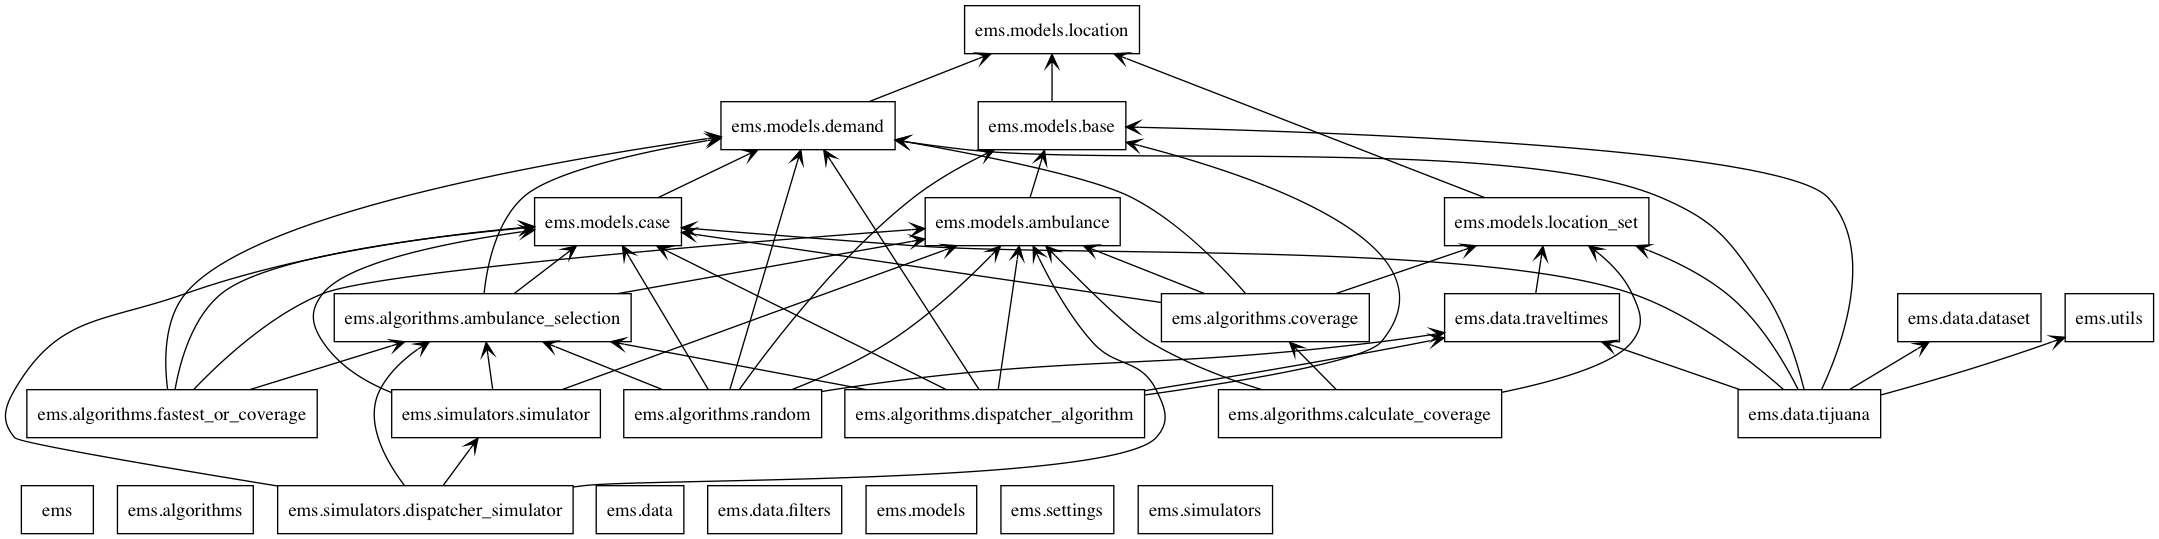
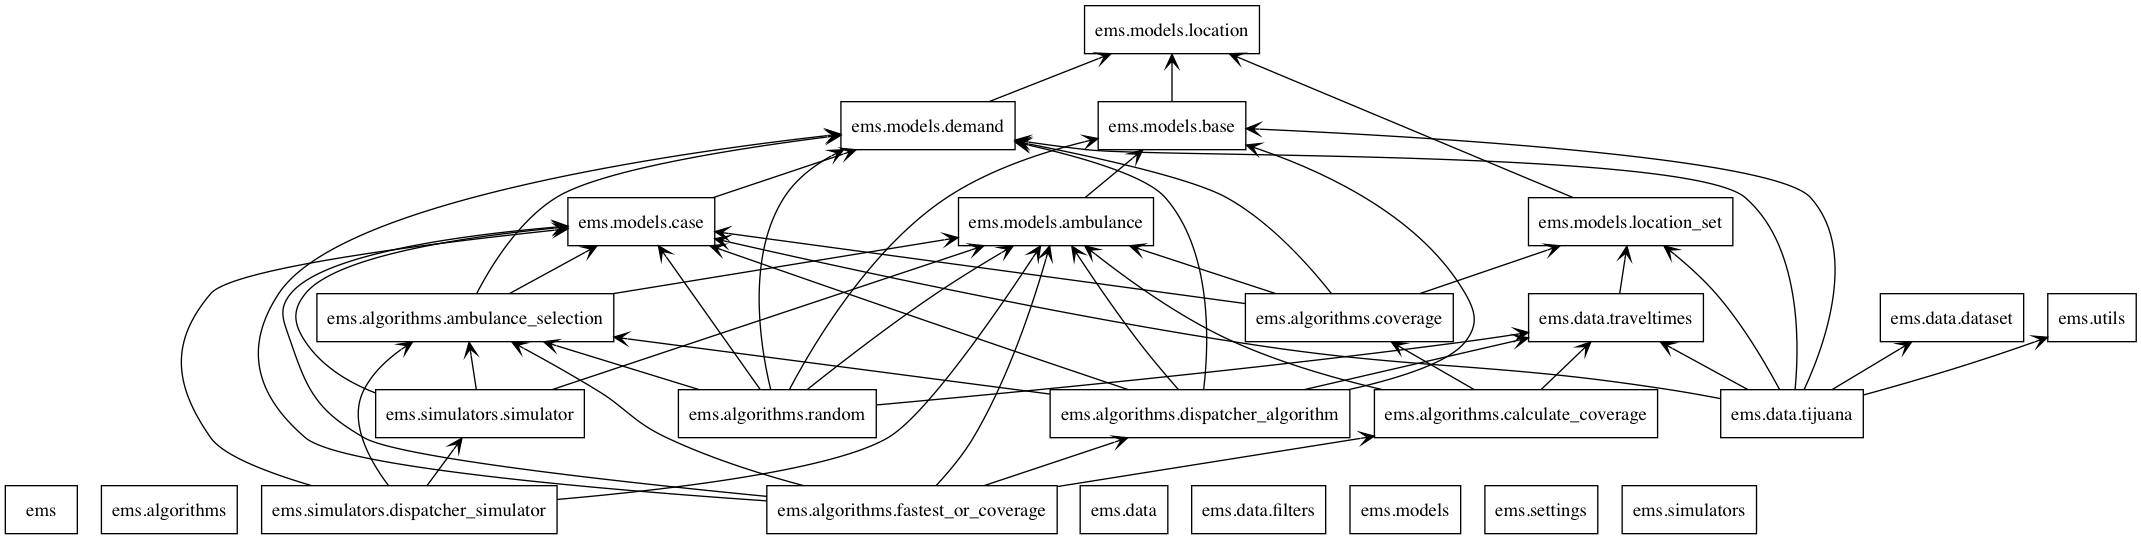
updating readme diagrams

diff --git a/ems/algorithms/dispatcher_algorithm.py b/ems/algorithms/dispatcher_algorithm.py
@@ -21,7 +21,7 @@ from ems.models.demand import Demand
 # An implementation of a "fastest travel time" algorithm from a base to
 # the demand point closest to a case
 
-class DispatcherAlgorithm(AmbulanceSelectionAlgorithm):
+class BestTravelTimeAlgorithm(AmbulanceSelectionAlgorithm):
 
     def __init__(self,
                  bases: List[Base] = None,
@@ -45,11 +45,10 @@ class DispatcherAlgorithm(AmbulanceSelectionAlgorithm):
             ambulances, self.traveltimes, closest_demand)
 
         # Determine the overall coverage, and each ambulance's disruption to the cost. TODO 
-        current_coverage = self.determine_coverage(ambulances, case)
+        # current_coverage = self.determine_coverage(ambulances, case)
 
         return {'choice': chosen_ambulance,
-                'travel_time': ambulance_travel_time,
-                'coverage': current_coverage}
+                'travel_time': ambulance_travel_time}
 
     def closest_distance(self, list_type, target_point):
         """
@@ -109,62 +108,6 @@ class DispatcherAlgorithm(AmbulanceSelectionAlgorithm):
 
 
 
-
-    def find_partial_coverage (self, base, demands_to_cover):
-
-        print("Length of demands: ", len(demands_to_cover))
-        # find the traveltime from the base to each demand, if it is less than 600 then it is covered
-        for i in range(len(demands_to_cover)):
-            
-            time = self.traveltimes.get_time(base, demands_to_cover[i])
-            covered = time.total_seconds() < 600
-            if covered:
-                demands_to_cover[i] = None
-                
-
-        return list(filter(None.__ne__, demands_to_cover))
-
-    def determine_coverage (self, ambulances:List[Ambulance], case):
-        # Given a set of ambulances, for each available ambulance, find its base and calculate how 
-        # many demands are covered. For each covered demand, delete it from the demand. 
-
-        # Continue until no more available ambulances, and then count remaining demand as 
-        # uncovered demands. 
-
-        checked_bases = []
-        active_bases = list([amb.base for amb in ambulances if not amb.deployed])
-        demands_covered = [0 for _ in self.demands]
-
-        for index in range(len(demands_covered)):
-            if not demands_covered[index]:
-                for base in active_bases:
-                    if self.traveltimes.get_time(base, self.demands[index]).total_seconds() < 600:
-                        demands_covered[index] = 1
-                        break
-        print("Coverage: ",sum(demands_covered))
-        return sum(demands_covered) 
-
-
-
-
-        # demands_to_cover = deepcopy(self.demands)
-        # covered = [0 for _ in demands_to_cover]
-
-        # active_bases = list([amb.base for amb in ambulances if not amb.deployed])
-
-        # print("Active bases: ", len(active_bases))
-        # for base in active_bases:
-        #     demands_to_cover = self.find_partial_coverage(base, demands_to_cover)
-
-
-
-        # print ("Coverage: " ,sum(covered))
-
-
-
-        # uncovered = sum([1 for u in demands_to_cover])
-        # print("Coverage: ", 100 - uncovered )
-        # return 100 - uncovered
 
 
 

diff --git a/ems/algorithms/calculate_coverage.py b/ems/algorithms/calculate_coverage.py
@@ -2,12 +2,13 @@
 from typing import List
 
 from ems.models.ambulance import Ambulance
-from ems.models.location_set import LocationSet
-
 from ems.algorithms.coverage import CoverageAlgorithm
+from ems.data.traveltimes import TravelTimes
+
+from datetime import timedelta
+from copy import deepcopy
 
 import numpy as np
-from datetime import timedelta
 
 # Used by the sim to select ambulances
 class DemandsCoveredAlgorithm (CoverageAlgorithm):
@@ -16,19 +17,45 @@ class DemandsCoveredAlgorithm (CoverageAlgorithm):
         finding coverage.
     """
 
-    def __init__(self):
-         self.recorded_coverages: List[int] = []
+    def __init__(self, travel_times:TravelTimes):
+        self.travel_times = travel_times
+        self._recorded_coverages:List = []
 
-    def calculateCoverage(self,
-                         demands: LocationSet,
-                         ambulances: List[Ambulance]):
+
+    def calculate_entire_coverage(self, ambulances : List[Ambulance]):
         """
-        Given a list of ambulances, find the coverage, and then append coverage.
-        :param demands:
+        At a time, given a list of ambulances, determine the coverage of all the demands.
+
         :param ambulances:
         :return:
         """
-        pass
+
+        active_bases = list([amb.base for amb in ambulances if not amb.deployed])
+        demands = self.travel_times.demands
+        demands_covered = [0 for _ in demands]
+
+        for index in range(len(demands)):
+            if not demands[index]:
+                for base in active_bases:
+                    if self.travel_times.get_time(base, demands[index]).total_seconds() < 600:
+                        demands_covered[index] = 1
+                        break
+
+        total = sum(demands_covered)
+        self._recorded_coverages.append(total)
+        return total
+
+
+
+
+    def get_most_recent(self):
+        return self._recorded_coverages[-1]
+
+    def get_all_coverages(self):
+        return deepcopy(self._recorded_coverages)
+
+
+
 
 
     def avgCoverage(self):
@@ -36,14 +63,15 @@ class DemandsCoveredAlgorithm (CoverageAlgorithm):
 
         :return: The average of the coverages so far.
         """
-        return sum(self.recorded_coverages) / len(self.recorded_coverages)
+        avg = sum(self._recorded_coverages) / len(self._recorded_coverages)
+        return avg
 
     def maxCoverage(self):
-        return max(self.recorded_coverages)
+        return max(self._recorded_coverages)
 
     def minCoverage(self):
-        return min(self.recorded_coverages)
+        return min(self._recorded_coverages)
 
     def stdDevCoverage(self):
-        std_dev = np.std(np.array([time.total_seconds() for time in l]), axis=0)
+        std_dev = np.std(np.array([time.total_seconds() for time in self._recorded_coverages]), axis=0)
         return timedelta(std_dev.item())

diff --git a/ems/simulators/dispatcher_simulator.py b/ems/simulators/dispatcher_simulator.py
@@ -67,13 +67,13 @@ class DispatcherSimulator(Simulator):
 
 
 
-            # Stage 2: Determine the next event
-            # Event Delay Case:         If no ambulances are available and next case occurs before any ambulance gets back
-            # Event Retire Ambulance:   If ambulances are currently handling cases and the ambulance gets back before
-            #                           next case occurs
-            # Event Start Case:         If ambulances are available and next case occurs before any ambulance gets back
-            #
-            # Finish when no more cases and no more ambulances attending cases
+    # Stage 2: Determine the next event
+    # Event Delay Case:         If no ambulances are available and next case occurs before any ambulance gets back
+    # Event Retire Ambulance:   If ambulances are currently handling cases and the ambulance gets back before
+    #                           next case occurs
+    # Event Start Case:         If ambulances are available and next case occurs before any ambulance gets back
+    #
+    # Finish when no more cases and no more ambulances attending cases
 
             # Loop end condition - No more case or moving ambulances
             if not pending_cases and not working_cases and not ambulances_in_motion:

diff --git a/ems/algorithms/fastest_or_coverage.py b/ems/algorithms/fastest_or_coverage.py
@@ -3,11 +3,14 @@ from typing import List
 
 from ems.models.ambulance import Ambulance
 from ems.models.case import Case
+from ems.algorithms.dispatcher_algorithm import BestTravelTimeAlgorithm
+from ems.algorithms.calculate_coverage import CoverageAlgorithm
+
 from ems.models.demand import Demand
 from ems.algorithms.ambulance_selection import AmbulanceSelectionAlgorithm
 
 # Used by the sim to select ambulances
-class FastestAmbulanceBestCoverage(AmbulanceSelectionAlgorithm):
+class FastestAmbulanceBestCoverage(BestTravelTimeAlgorithm, CoverageAlgorithm):
     """
         Barebone class. Users may subclass to implement their own algorithm for
         selecting an ambulance.

diff --git a/README.md b/README.md
@@ -1,29 +1,32 @@
 # Ambulance Dispatch Simulation
 
-A library to do ambulance dispatch simulation and analysis. 
+A library to do ambulance dispatch simulation and analysis.
 
 Try: `time python3 main.py --ambulances 7 --bases 7`
 
-To run the simulation, take a look at `main.py`. Notice the filepaths there. You will need to edit 
-`file_path`, `demands_filepath`, and `bases_filepath` to point at the Cruz Roja datasets. 
+To run the simulation, take a look at `main.py`. Notice the filepaths there. You will need to edit
+`file_path`, `demands_filepath`, and `bases_filepath` to point at the Cruz Roja datasets.
 
-To test, take a look at `test.py`. Similar to main.py, you will need to edit 
-`file_path`, `demands_filepath`, and `bases_filepath` to point at the Cruz Roja datasets. 
+To test, take a look at `test.py`. Similar to main.py, you will need to edit
+`file_path`, `demands_filepath`, and `bases_filepath` to point at the Cruz Roja datasets.
 
 You'll notice that an exception will be thrown. This is because the datasets will require
 labels in the CSV files. Add a newline above the datasets, naming the latitudes and longitudes.
 
-To see this, you may need to uncomment `printData()`. The test program will end up asking you 
-to proceed when ready. (Press Enter.) 
+To see this, you may need to uncomment `printData()`. The test program will end up asking you
+to proceed when ready. (Press Enter.)
 
 
 # UMLs
 
 These images are small, either (1) zoom into the page or (2) right click and open image in new tab.
 
-**Class UML Diagram:**
+## Simulator
 
-![](classes_EMS.png)
+![](classes_ems_simulators.jpg)
+![](classes_ems_models.jpg)
+![](classes_ems_data.jpg)
+![](classes_ems_algorithms.jpg)
 
 **Class UML Diagram:**
 
@@ -92,13 +95,13 @@ for input into the simulator (e.g. base selection)
 - Implements ambulance selection with a "fastest ambulance" algorithm by:
 
   - Finding the closest demand point to the given case by:
-  
+
     - Building a KD-Tree from the demand points for easy KNN (k=1) computation with the case location
-  
+
   - Finding a free ambulance whose travel time from its base to that demand point is minimal by:
-  
+
     - Querying the travel time object for travel times between each free ambulance's base to the demand point
-    
+
 - TBD (just need to merge): Support for coverage computation
 
 ### Simulator (ems/simulators/simulator.py)
@@ -114,27 +117,27 @@ for input into the simulator (e.g. base selection)
 - Run loop explanation:
 
   - __Stage 1__. Performs the current iteration's "event" and logs the results
-  
+
     - Events defined at the bottom of the file
-  
+
   - __Stage 2__. Computes the next iteration's event
-  
+
   - Keeps track of a "current time" and the current event
-  
+
   - Keeps track of all "pending cases" (cases that have begun but have not been assigned an ambulance)
-  
+
   - Keeps track of all ambulances that are attending cases
-  
+
   - _This is very much like a finite state machine with three states: "Start case", "Retire ambulance",
   and "Delay case"_
 
 - Note that demands, traveltimes, and bases are __not__ initialized here because they are not essential
 to the simulation; instead they are just used by the algorithm for ambulance selection
-  
+
 ### Utils (ems/utils)
 
   - Stuff I have no clue where to put (mostly pandas file parsing)
-  
+
 ### Settings (ems/settings)
 
   - Object to contain all configuration related information (e.g. filepaths, simulation parameters, etc.)
